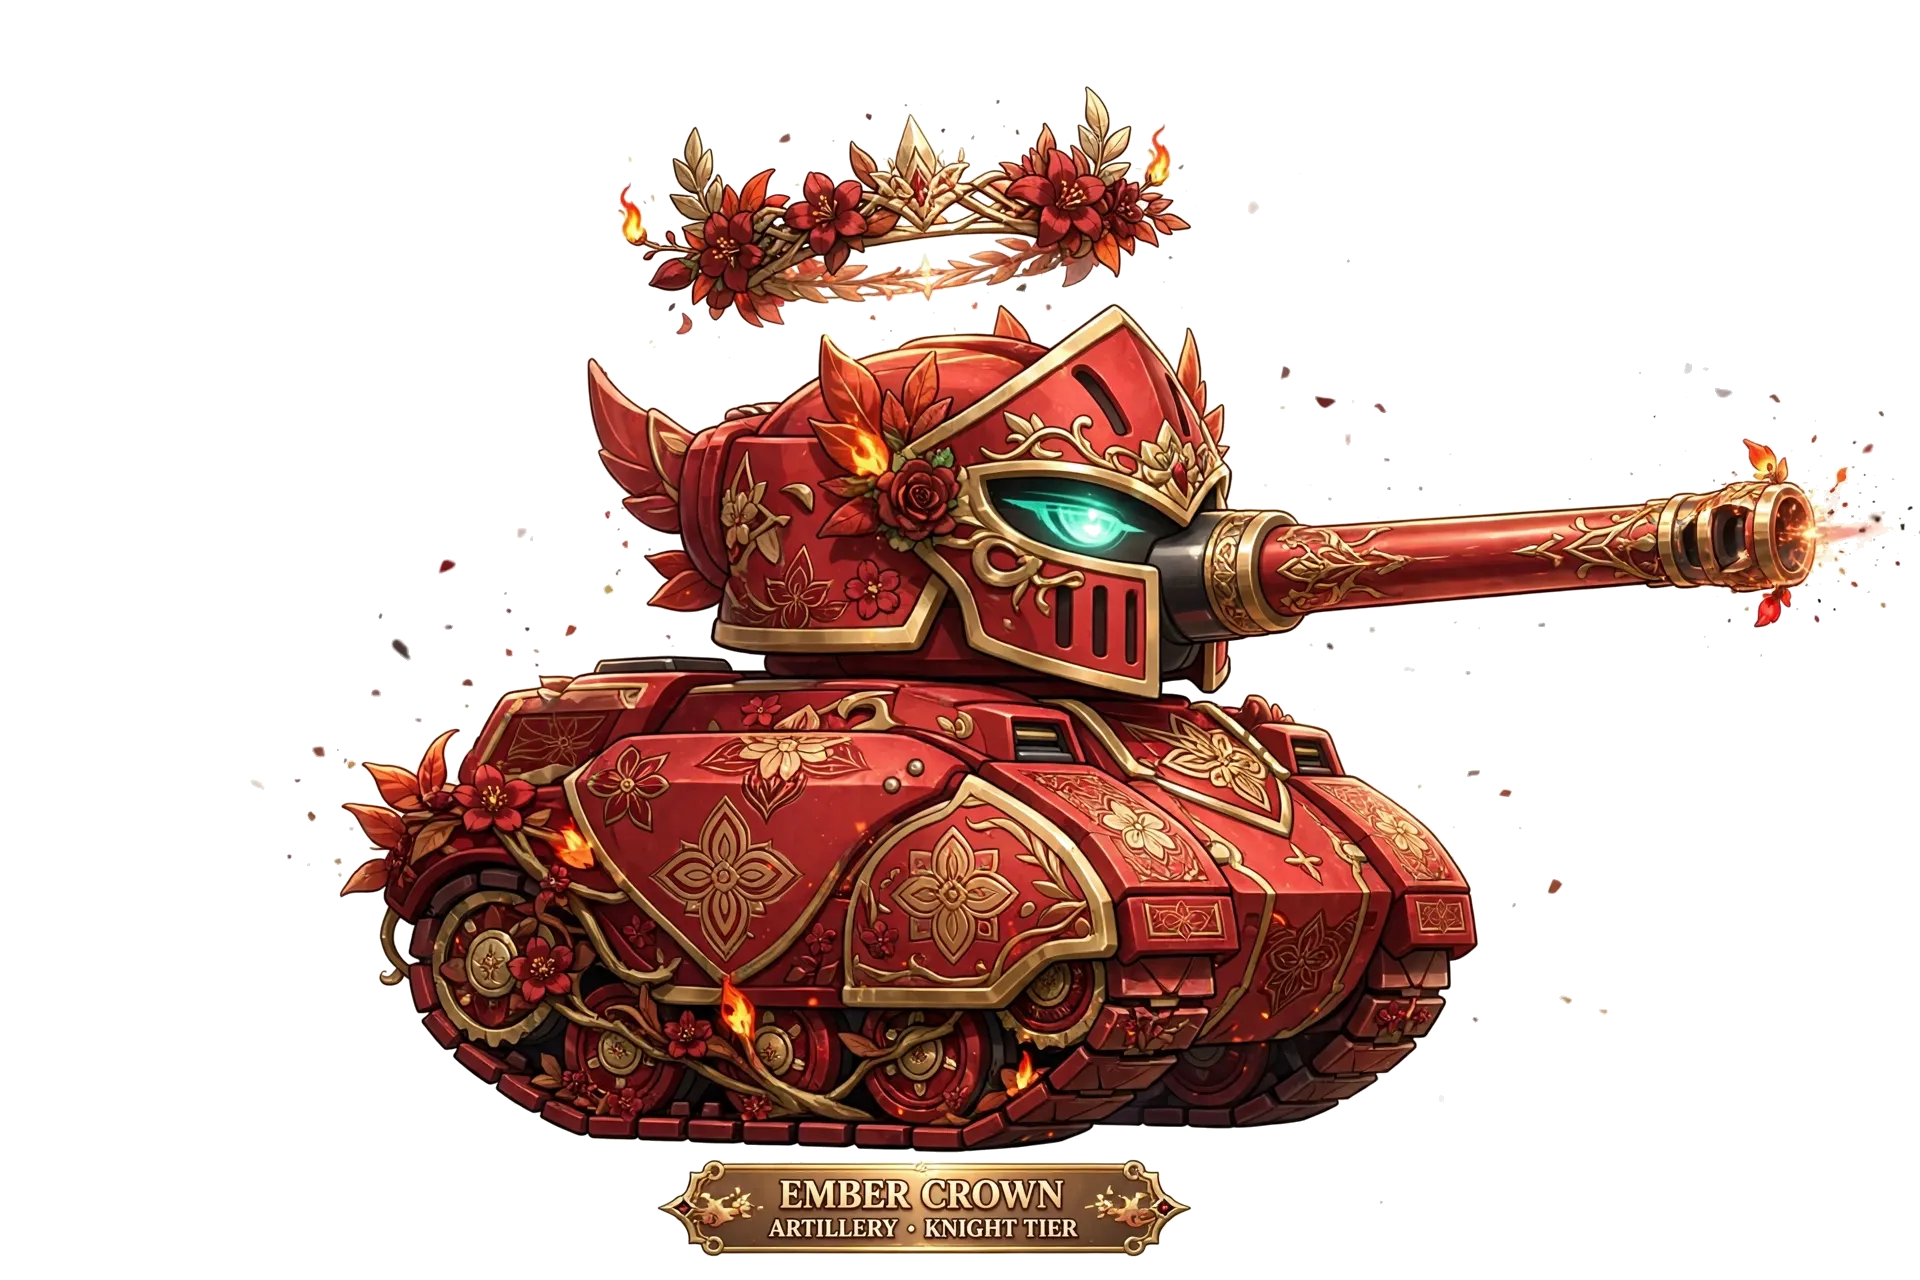
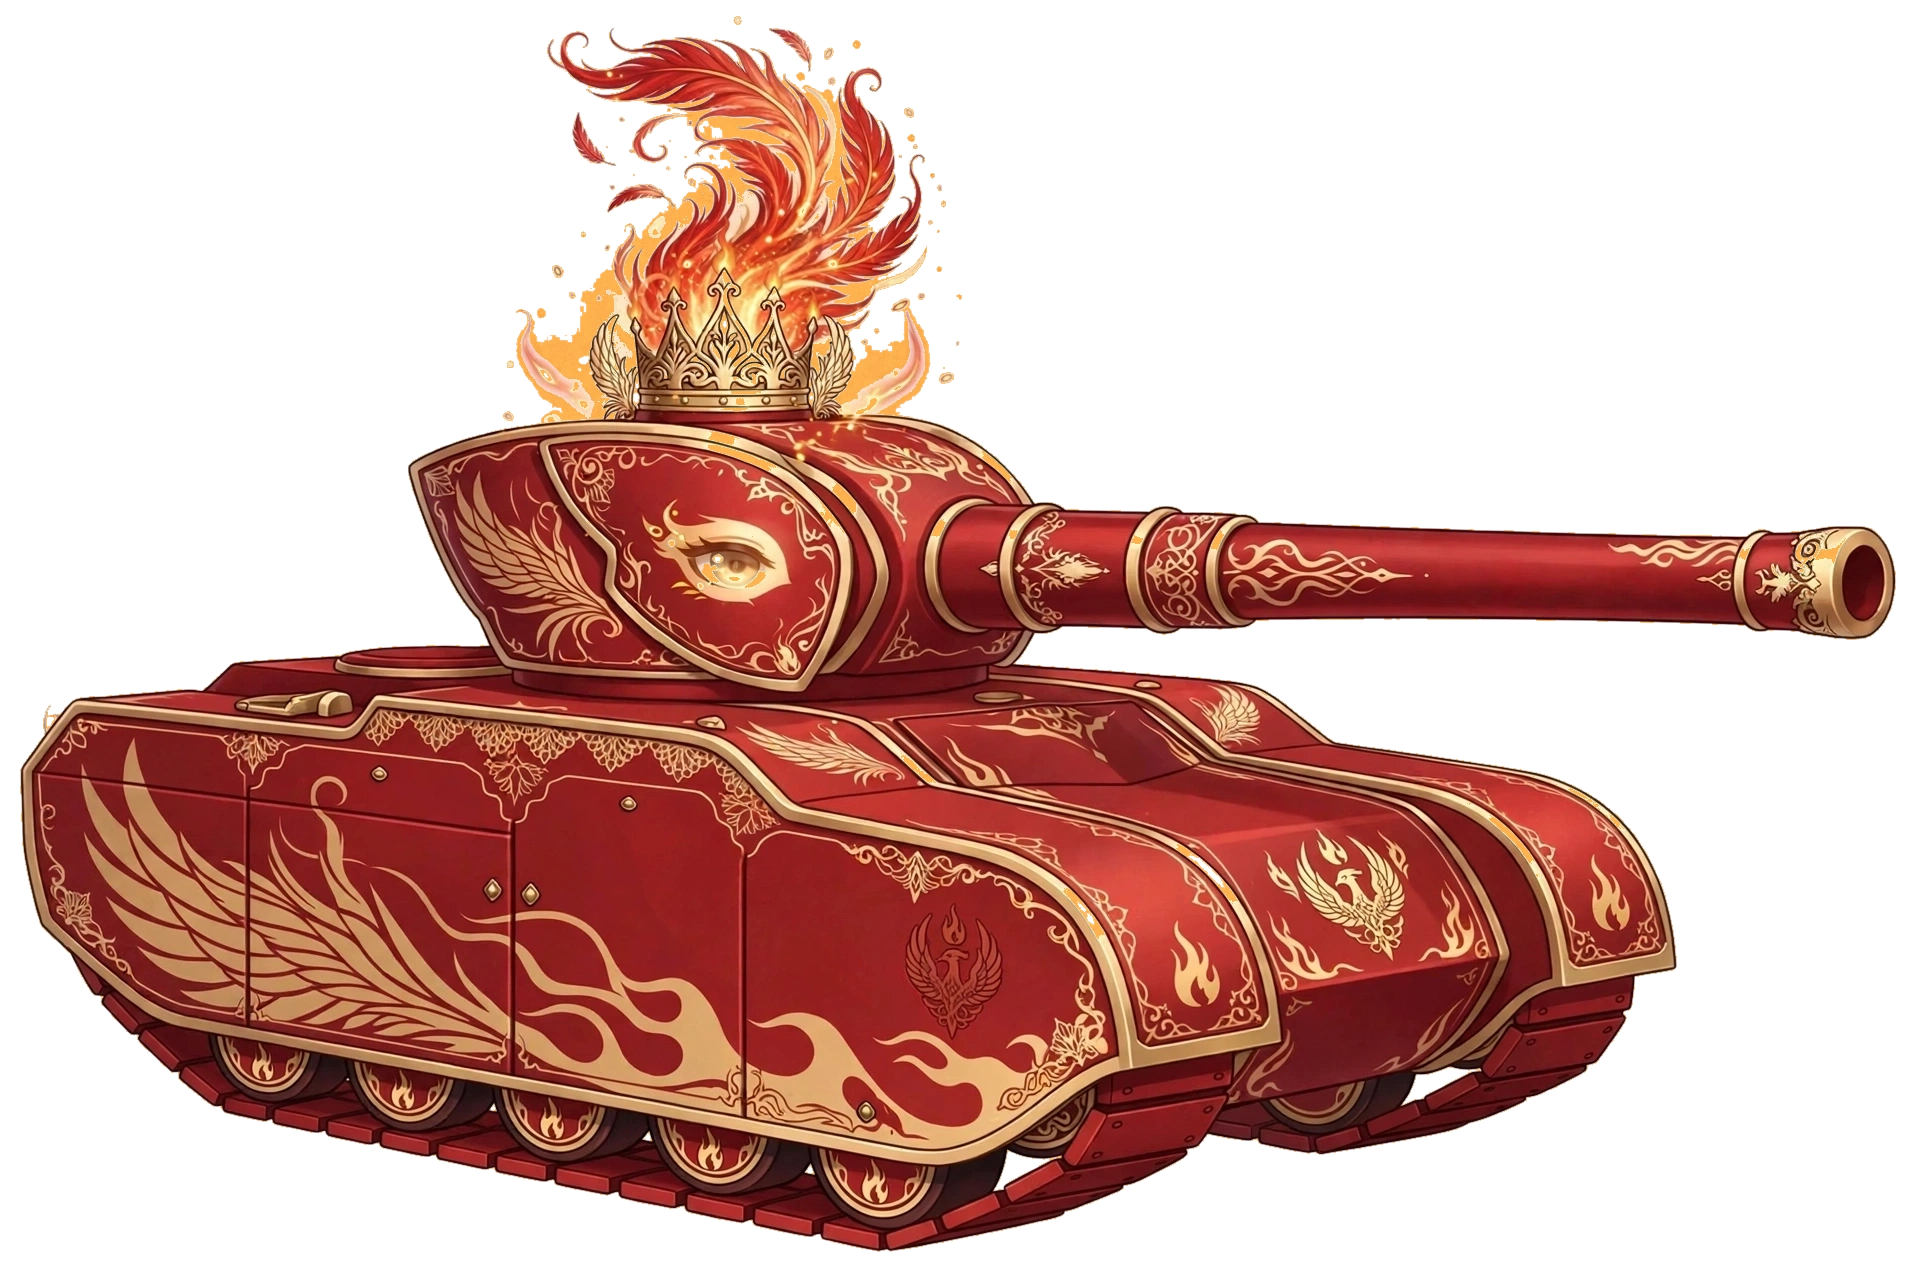
Ember Artillery: design overhaul with flames, no white

diff --git a/www/index.html b/www/index.html
@@ -5005,8 +5005,8 @@ const assetManifest={
    hand-maintained version tags. On boot the page fetches the manifest with
    cache:'no-store' and hard-reloads once if EITHER the live asset build or the
    live HTML version differs, so a stale cache can never survive a republish. */
-const __BUILD_ID='817d7b7f00';
-const __HTML_V='afd18eb042';
+const __BUILD_ID='7e58ee9086';
+const __HTML_V='542fa2d7e5';
 const __ASSET_V=__BUILD_ID;
 /* Synchronous snapshot of the actual art files in assets/build-manifest.json. The live
    manifest refresh below replaces this set as soon as it arrives. All player/enemy
